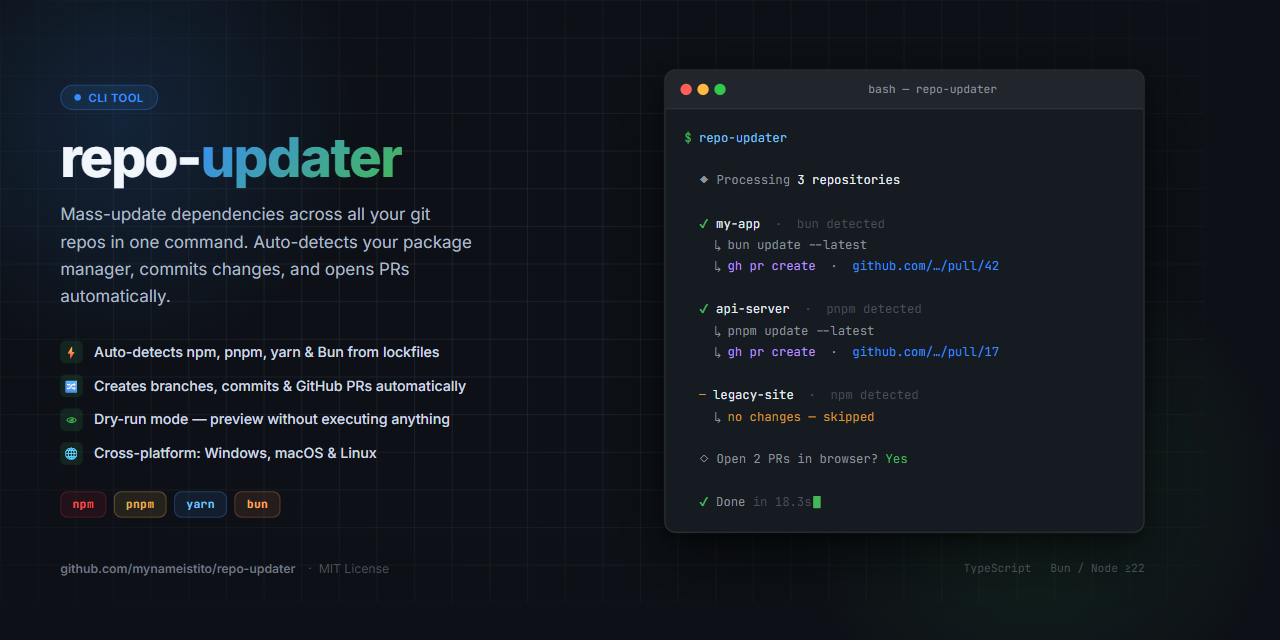
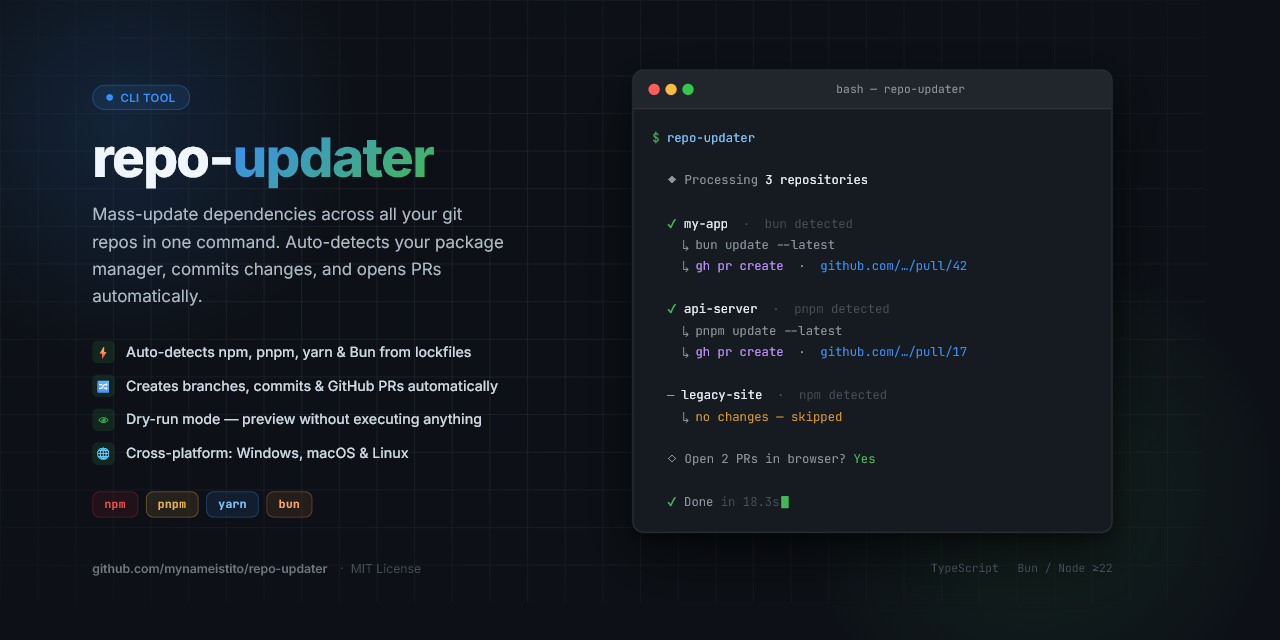
chore: center social preview layout horizontally and vertically

diff --git a/assets/social-preview.html b/assets/social-preview.html
@@ -74,16 +74,17 @@
       position: relative;
       z-index: 10;
       display: flex;
-      gap: 56px;
-      align-items: stretch;
+      gap: 64px;
+      align-items: center;
+      justify-content: center;
       height: 100%;
-      padding: 52px 64px;
+      padding: 52px 0;
     }
 
     /* LEFT COLUMN */
     .left {
       display: flex;
-      flex: 1;
+      flex: 0 0 510px;
       flex-direction: column;
       gap: 0;
       justify-content: center;
@@ -328,9 +329,9 @@
     /* Footer */
     .footer {
       position: absolute;
-      right: 64px;
+      right: 98px;
       bottom: 28px;
-      left: 64px;
+      left: 98px;
       z-index: 10;
       display: flex;
       align-items: center;
